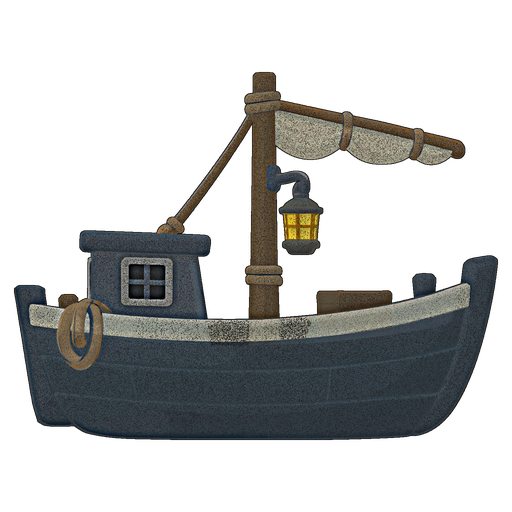
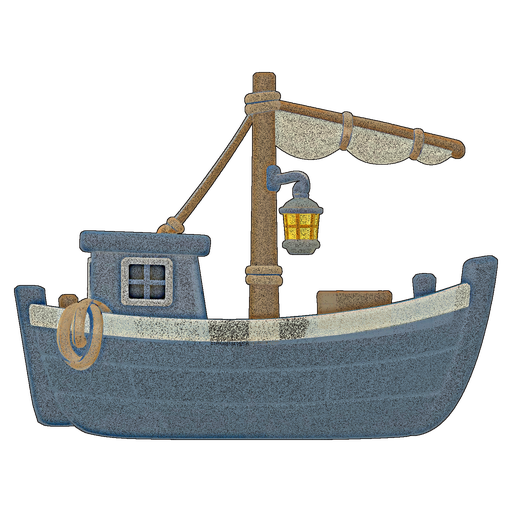
Otomatik commit: main.gd guncellendi - 2026-09-15 07:17

Changed region(s): [[0.0312, 0.125, 0.9688, 0.875]]

diff --git a/oyunlar/fener/gorseller/kayit.md b/oyunlar/fener/gorseller/kayit.md
@@ -14,7 +14,7 @@ referans satırlarında.
 | fener_kulesi.png | glb/fener_kulesi.glb | `toon_render.py … z` | 512 px |
 | ayna_plaka.png | glb/ayna_plaka.glb | `toon_render.py … z` | 512 px, kod 2B döndürür |
 | ayna_taban.png | glb/ayna_taban.glb | `toon_render.py … z` | 256 px |
-| tekne.png | glb/tekne.glb | `toon_render.py … z` | 512 px. **`x` yanlış çıktı** (tekne önden göründü), `z` doğru |
+| tekne.png | glb/tekne.glb | `toon_render.py … z 0.30 - 0.55` | 512 px. **`x` yanlış çıktı** (tekne önden göründü), `z` doğru. 2026-09-15 (İŞ 6): gövde gece denizinde 1.95 kontrasttı, parlaklık 0.33→0.55 ile yeniden render → gövde/zemin 3.1-3.8. Eskisi `cop/fener_is6/tekne_eski_parlak032.png` |
 | kayalik.png | glb/kayalik.glb | `toon_render.py … z 0.30 - 0.32` | 512 px. Varsayılan render gece sahnesinde fazla açıktı, parlaklık 0.52→0.32 |
 
 Gözle kontrol: hepsi gerçek arka plan üzerinde gerçek ölçekte bakıldı (540×960).

diff --git a/oyunlar/fener/proto/gorseller/kayit.md b/oyunlar/fener/proto/gorseller/kayit.md
@@ -9,7 +9,7 @@ Godot proje dışındaki dosyayı APK'ya koyamadığı için kopyalandı (2026-0
 | fener_kulesi.png | ../../gorseller/fener_kulesi.png | 2026-09-14, değiştirilmeden |
 | ayna_plaka.png | ../../gorseller/ayna_plaka.png | 2026-09-14, değiştirilmeden |
 | ayna_taban.png | ../../gorseller/ayna_taban.png | 2026-09-14, değiştirilmeden |
-| tekne.png | ../../gorseller/tekne.png | 2026-09-14, değiştirilmeden |
+| tekne.png | ../../gorseller/tekne.png | 2026-09-15, İŞ 6 yeniden render (parlaklık 0.55) |
 | kayalik.png | ../../gorseller/kayalik.png | 2026-09-14, değiştirilmeden |
 | arkaplan_gece_denizi.png | ../../gorseller/arkaplan_gece_denizi.png | 2026-09-14, değiştirilmeden |
 | sis_katmani.png | ../../gorseller/sis_katmani.png | 2026-09-14, değiştirilmeden |
